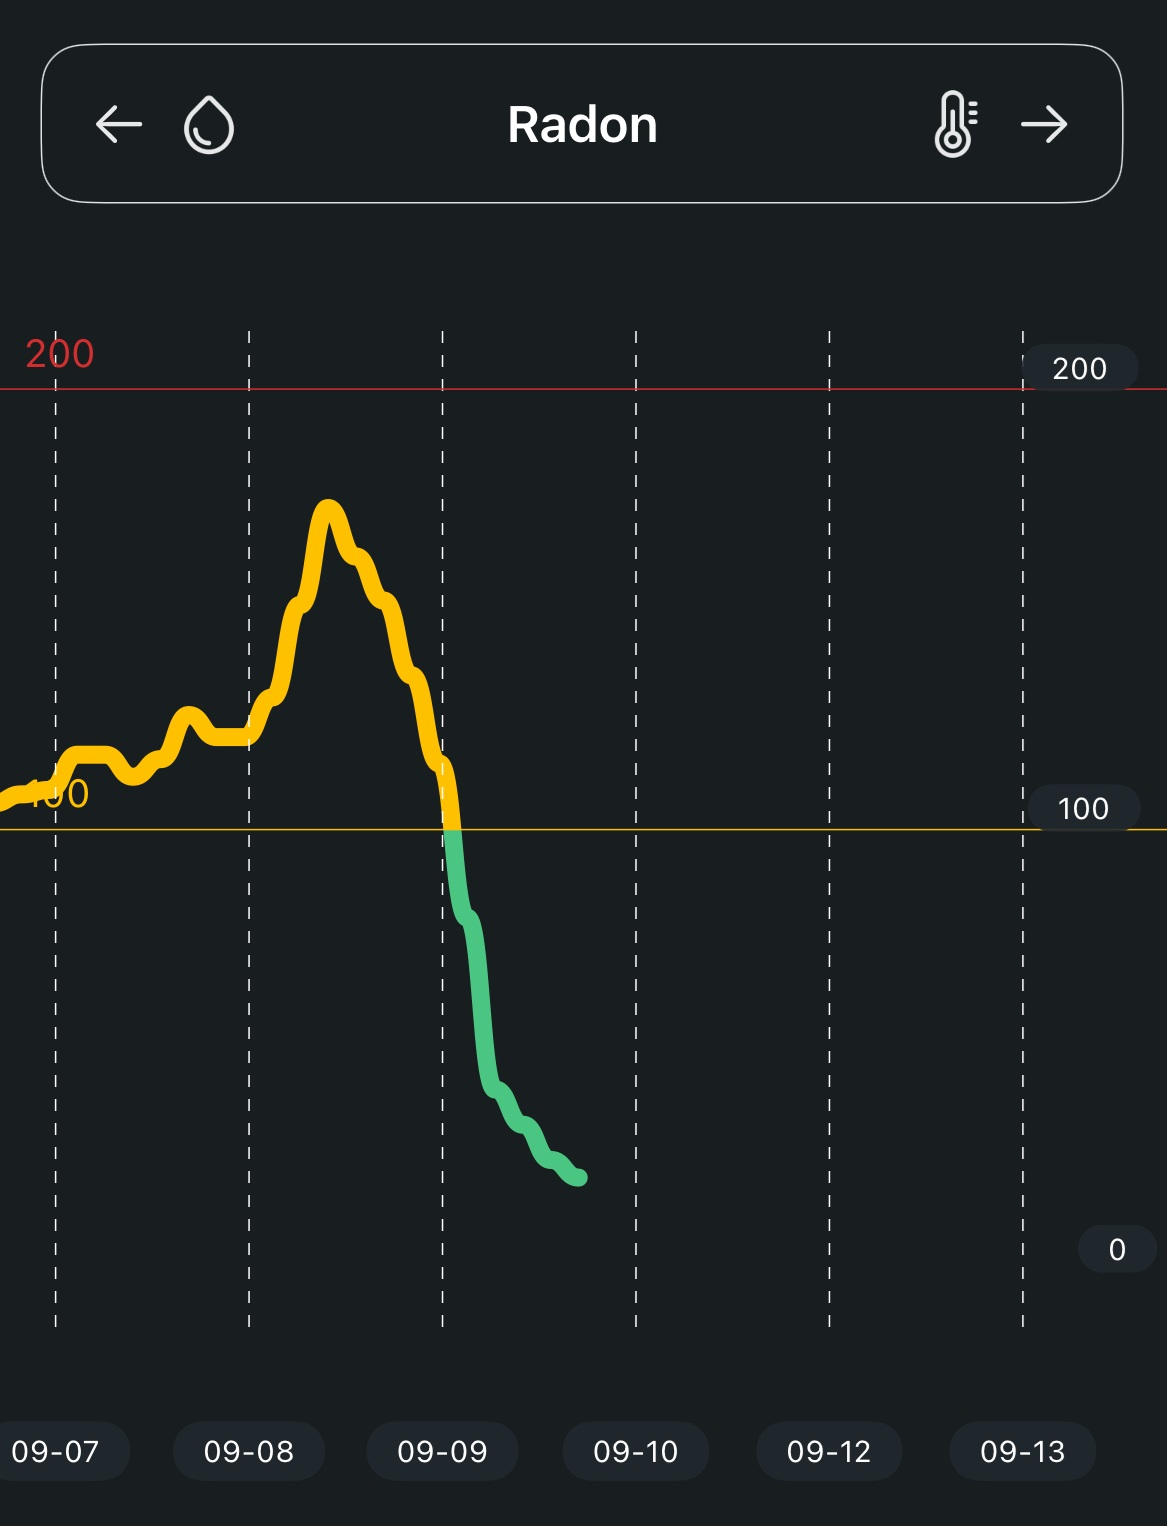
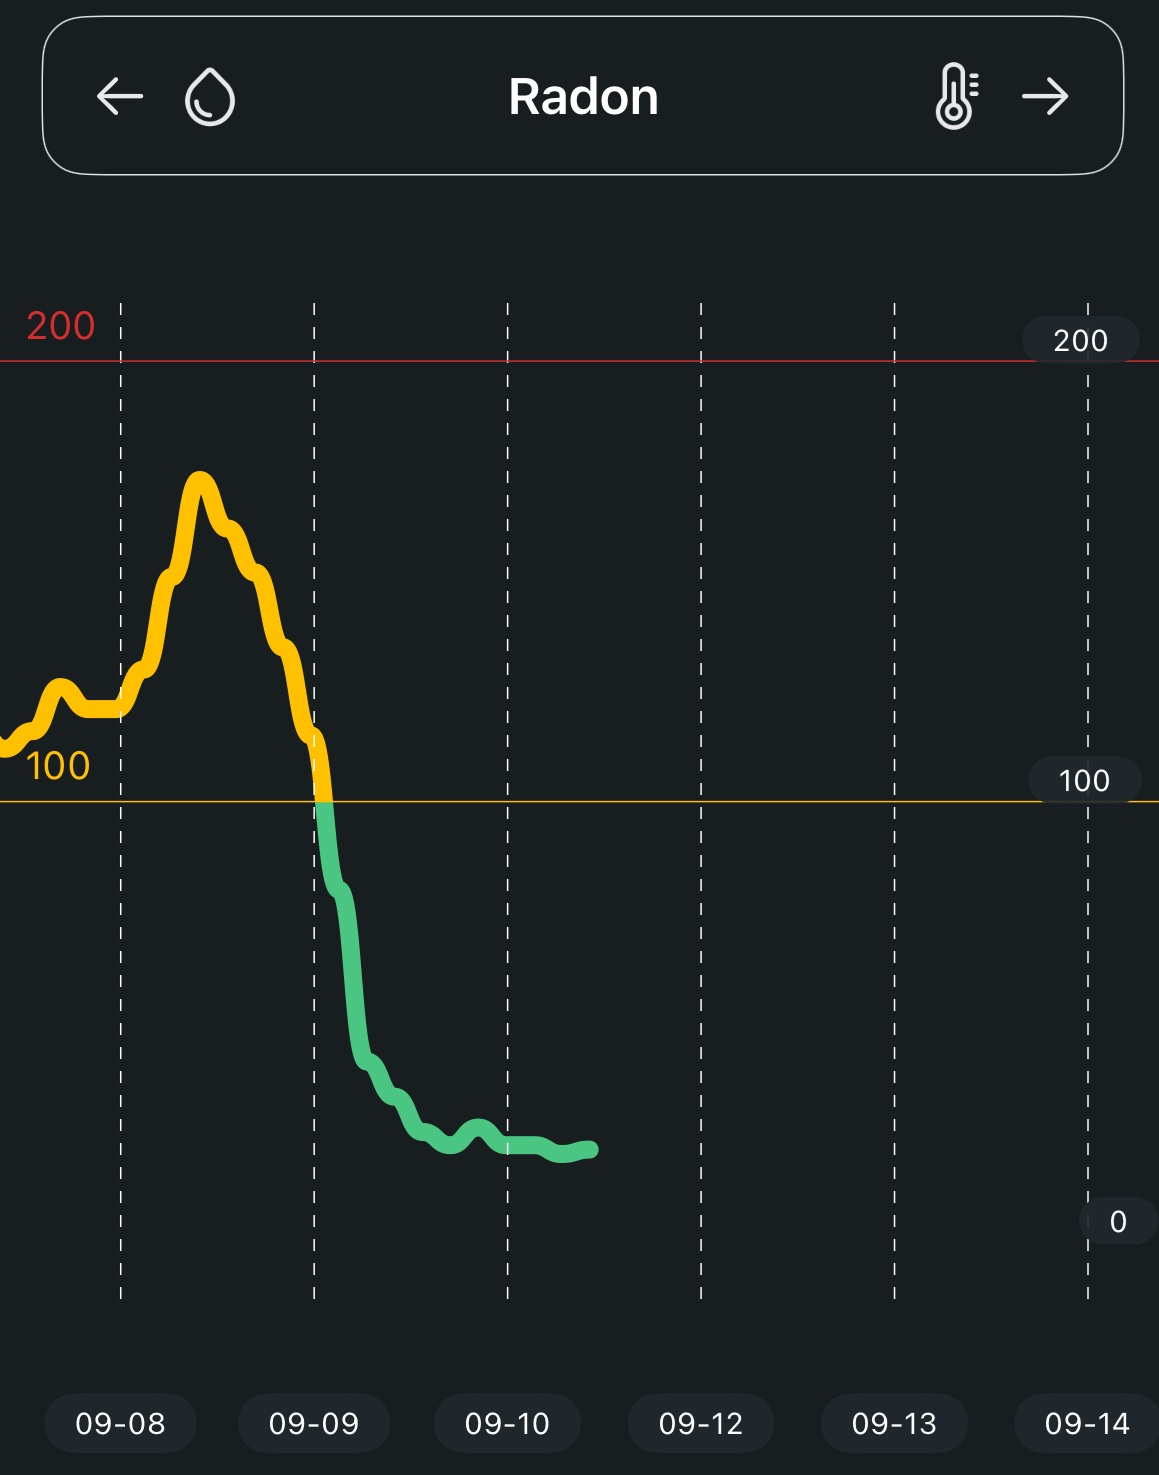
Add CO monitor photo and replace the radon chart on Our Work.

diff --git a/our-work.html b/our-work.html
@@ -160,11 +160,18 @@
             <span class="work-card-title">Radon measurement</span>
           </span>
         </button>
-        <button type="button" class="work-card" data-work-src="images/work/radon_chart.jpg" data-work-alt="Chart of indoor radon levels dropping after mitigation, with a 200 Bq/m³ reference line" data-work-caption="Radon chart — indoor levels drop after the system is running.">
-          <img src="images/work/radon_chart.jpg" alt="Chart of indoor radon levels dropping after mitigation, with a 200 Bq/m³ reference line" width="1167" height="1526" loading="lazy" decoding="async">
+        <button type="button" class="work-card" data-work-src="images/work/radon_chart.jpg?v=2" data-work-alt="Chart of indoor radon levels dropping after mitigation, with a 200 Bq/m³ reference line" data-work-caption="Radon chart — indoor levels drop after the system is running.">
+          <img src="images/work/radon_chart.jpg?v=2" alt="Chart of indoor radon levels dropping after mitigation, with a 200 Bq/m³ reference line" width="1159" height="1475" loading="lazy" decoding="async">
           <span class="work-card-overlay">
             <span class="work-tag">System check</span>
             <span class="work-card-title">Radon chart</span>
+          </span>
+        </button>
+        <button type="button" class="work-card" data-work-src="images/work/co_monitor.jpeg" data-work-alt="Carbon monoxide monitor on a sealed sump lid showing 0.000 ppm" data-work-caption="CO monitor — carbon monoxide reading on the sealed sump cover.">
+          <img src="images/work/co_monitor.jpeg" alt="Carbon monoxide monitor on a sealed sump lid showing 0.000 ppm" width="3024" height="4032" loading="lazy" decoding="async">
+          <span class="work-card-overlay">
+            <span class="work-tag">System check</span>
+            <span class="work-card-title">CO monitor</span>
           </span>
         </button>
       </div>
